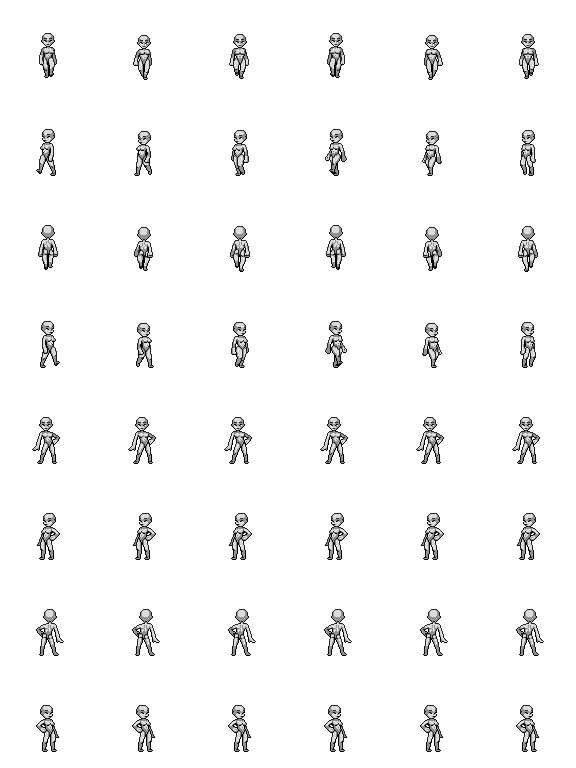
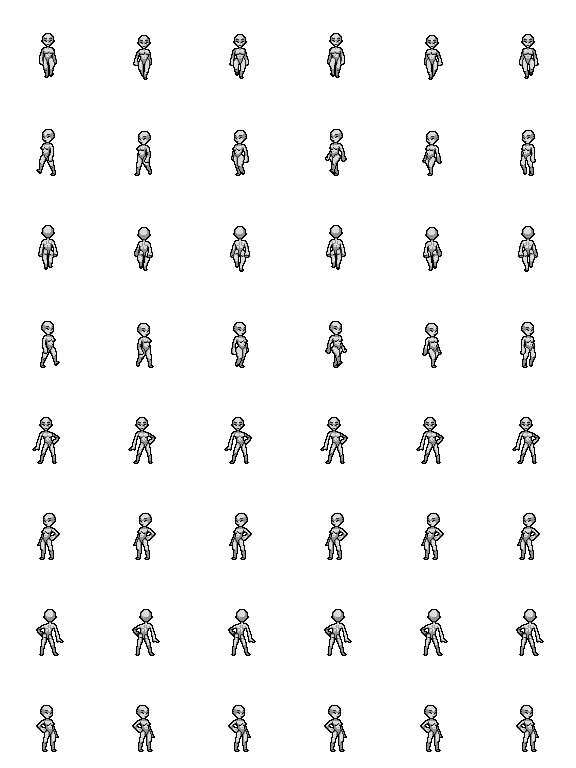
fix: getting closer

diff --git a/scripts/edge_detector.js b/scripts/edge_detector.js
@@ -37,6 +37,32 @@ async function processImage(inputPath) {
             return channels === 4 && data[index + 3] < OPACITY_THRESHOLD;
         };
 
+        // Helper function to check if a pixel is on an edge (touches transparency)
+        const isEdgePixel = (x, y) => {
+            // Check all 8 surrounding pixels
+            const directions = [
+                [-1, -1], [0, -1], [1, -1],
+                [-1,  0],          [1,  0],
+                [-1,  1], [0,  1], [1,  1]
+            ];
+
+            for (const [dx, dy] of directions) {
+                const newX = x + dx;
+                const newY = y + dy;
+                
+                // Skip if outside image bounds
+                if (newX < 0 || newX >= width || newY < 0 || newY >= height) {
+                    continue;
+                }
+
+                const neighborIndex = getPixelIndex(newX, newY);
+                if (isEffectivelyTransparent(neighborIndex)) {
+                    return true;
+                }
+            }
+            return false;
+        };
+
         // First pass: collect all unique colors and calculate their luminance
         const colorMap = new Map();
         for (let y = 0; y < height; y++) {
@@ -85,13 +111,20 @@ async function processImage(inputPath) {
                 const i = getPixelIndex(x, y);
                 
                 if (!isEffectivelyTransparent(i)) {
-                    const key = `${data[i]},${data[i + 1]},${data[i + 2]}`;
-                    const grayValue = colorToGrayMap.get(key);
-                    
-                    // Set RGB values to the mapped gray value
-                    outputBuffer[i] = grayValue;     // R
-                    outputBuffer[i + 1] = grayValue; // G
-                    outputBuffer[i + 2] = grayValue; // B
+                    if (isEdgePixel(x, y)) {
+                        // Set edge pixels to black
+                        outputBuffer[i] = 0;     // R
+                        outputBuffer[i + 1] = 0; // G
+                        outputBuffer[i + 2] = 0; // B
+                    } else {
+                        const key = `${data[i]},${data[i + 1]},${data[i + 2]}`;
+                        const grayValue = colorToGrayMap.get(key);
+                        
+                        // Set RGB values to the mapped gray value
+                        outputBuffer[i] = grayValue;     // R
+                        outputBuffer[i + 1] = grayValue; // G
+                        outputBuffer[i + 2] = grayValue; // B
+                    }
                     
                     // Set alpha to fully opaque for non-transparent pixels
                     if (channels === 4) {
